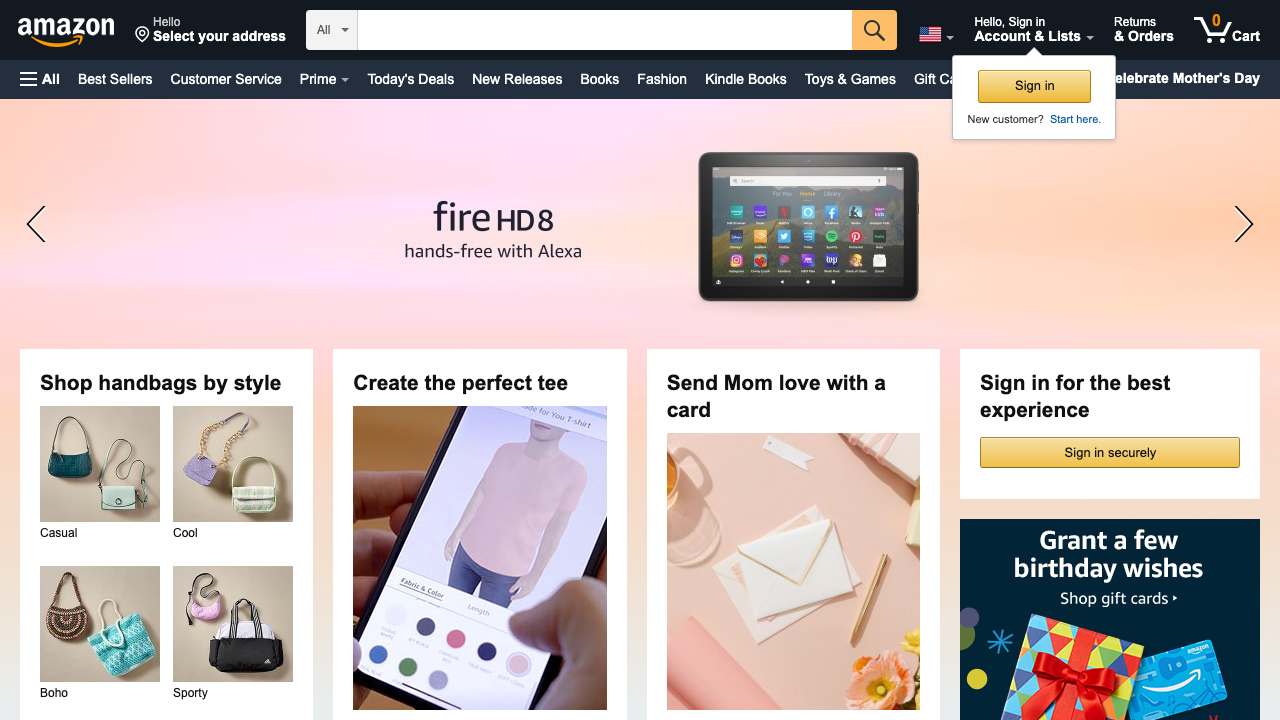
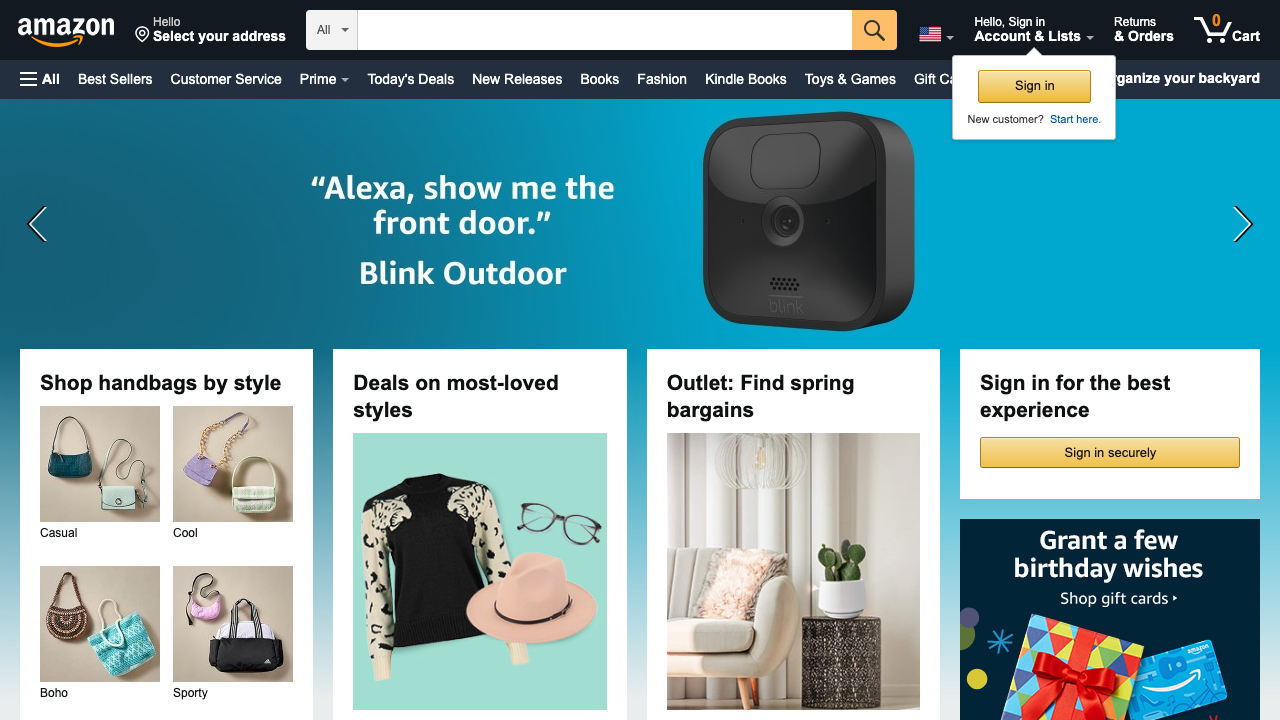
add `run` and $TARGET

diff --git a/src/spec/basic.spec.ts b/src/spec/basic.spec.ts
@@ -11,11 +11,12 @@ describe('something', () => {
           const endpoint = res.data.endpoint;
           const browser  = await playwright.chromium.connect({ wsEndpoint: endpoint });
           const page     = await browser.newPage();
-          let domain     = "amazon.com";
+          // let domain     = "amazon.com";
+          const target   = process.env.TARGET;
 
-          await page.goto(`https://${domain}`);
+          await page.goto(`https://${target}`);
           await page.screenshot({
-            path: `doc/${domain}.png`
+            path: `doc/${target}.png`
           });
 
           await browser.close();
